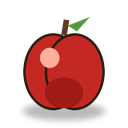
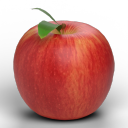
Add apple model and item artwork

diff --git a/doc/assets/props.md b/doc/assets/props.md
@@ -18,6 +18,9 @@
 - scroll https://sketchfab.com/3d-models/scroll-7450e494eb654e9b937bb52724220e77 (scroll_enchant.glb는 같은 모델의 파란 봉인 변형. 소스는 ~/assets_original/scroll.blend (레포 밖 보관) — 두 머티리얼 모두 알파에 Math/ROUND 노드가 들어 있어 glTF 익스포트 시 alphaMode=MASK가 됨. 이 노드를 지우면 BLEND로 나가 봉인이 떠 보이는 문제가 재발하니 유지할 것)
 - river rock https://sketchfab.com/3d-models/river-rocks-model-2dc354c1f84a43f493343f54e05eaed9
 - campfire.glb — Meshy AI "Crimson Ember Stack" (Pro 요금제, 2026-08-02 생성). Meshy 유닛큐브를 지름 0.6m로 스케일 적용, 원점을 바닥 중앙으로 이동. 텍스처 2048→512 축소, metallic 맵은 전부 0이라 제거하고 metallicFactor=0. emissive는 잔불 발광이라 유지
+    - 원화는 ChatGPT 이미지 생성 (ChatGPT Pro 20x, 2026-08-03) ![원화](../images/campfire.png)
+- apple.glb — Meshy AI "Crimson Apple with Leaf" (Pro 요금제, 2026-08-03 생성). 지름 0.15m로 스케일 적용, 원점을 바닥 중앙으로 이동. 텍스처 2048→512 축소, metallic/emissive 맵은 값이 거의 0이라 제거하고 metallicFactor=0. `client/public/items/apple.png` 아이콘은 이 모델을 128x128로 렌더링한 것
+    - 원화는 ChatGPT 이미지 생성 (ChatGPT Pro 20x, 2026-08-03) ![원화](../images/apple.png)
 
 ## House
 
